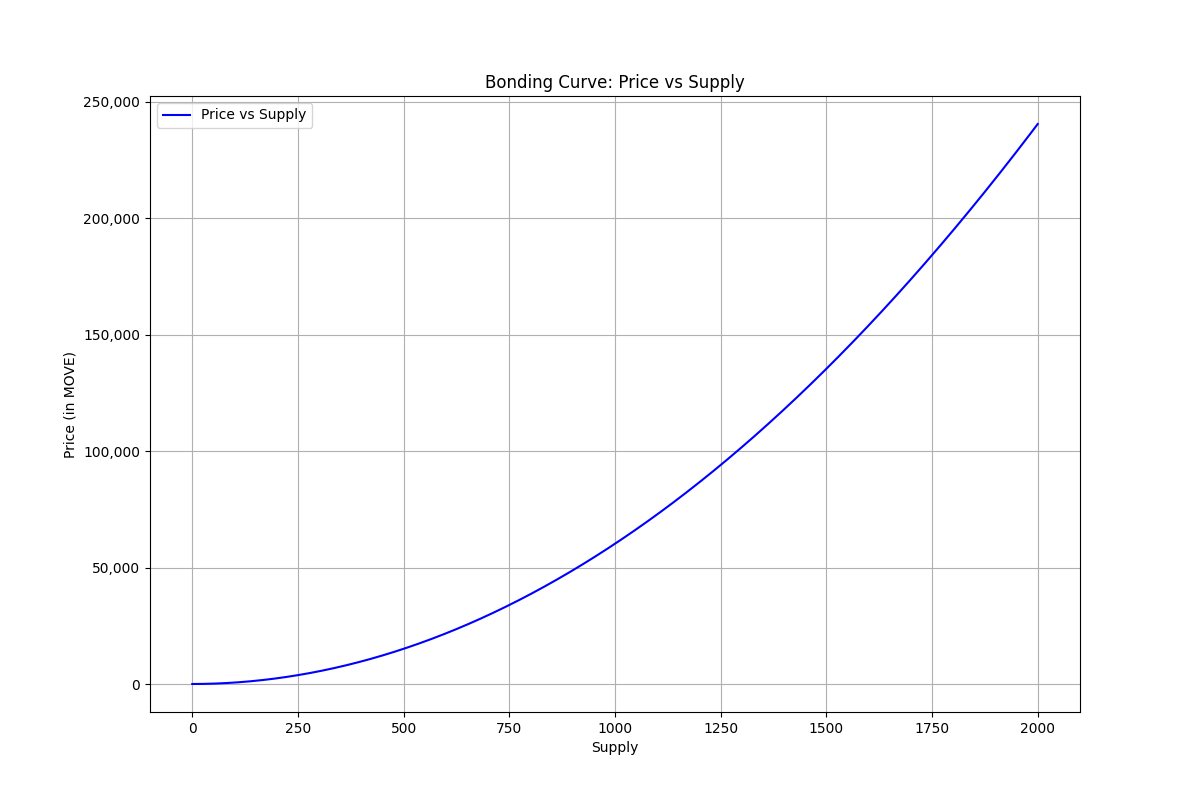
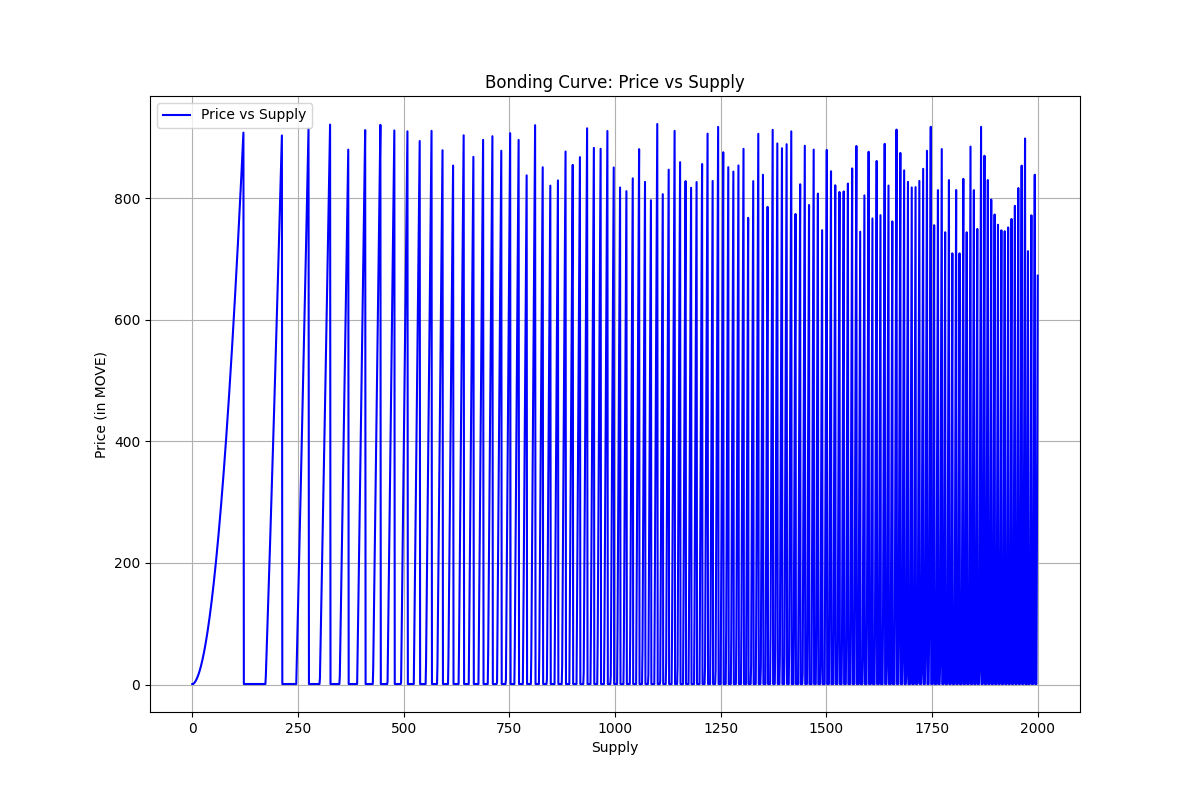
Scaled down PodiumProtocol Bonding Curve to mitigate overflow

diff --git a/bondingcurve.py b/bondingcurve.py
@@ -3,27 +3,37 @@ import numpy as np
 from matplotlib.ticker import FuncFormatter
 
 # Constants based on the bonding curve implementation
-DEFAULT_WEIGHT_A = 0.3 * 10**8  # Scaled by WAD
-DEFAULT_WEIGHT_B = 0.2 * 10**8  # Scaled by WAD
+DEFAULT_WEIGHT_A = 30000000  # 0.3 * 10^8
+DEFAULT_WEIGHT_B = 20000000  # 0.2 * 10^8
 DEFAULT_WEIGHT_C = 2
-WAD = 10**8  # Adjusted scaling factor for precision
+WAD = 100000000  # 10^8 (SCALING_FACTOR)
 INITIAL_PRICE = 1 * WAD  # Ensure starting price is exactly 1
 
 def get_price(supply, amount):
-    # Adjusted supply
+    # Add adjustment factor to supply
     adjusted_supply = supply + DEFAULT_WEIGHT_C
+    if adjusted_supply == 0:
+        return INITIAL_PRICE
 
     # Calculate summations
-    sum1 = ((adjusted_supply - 1) * adjusted_supply * (2 * (adjusted_supply - 1) + 1)) // 6
-    sum2 = ((adjusted_supply - 1 + amount) * (adjusted_supply + amount) * (2 * (adjusted_supply - 1 + amount) + 1)) // 6
-
-    # Summation difference
+    n1 = adjusted_supply - 1
+    
+    # Calculate first summation
+    # Divide operations into steps to prevent overflow
+    sum1_part1 = n1 * adjusted_supply
+    sum1_part2 = (2 * n1 + 1)
+    sum1 = (sum1_part1 * sum1_part2) // 6
+    
+    # Calculate summation for supply + amount
+    n2 = n1 + amount
+    sum2_part1 = n2 * (adjusted_supply + amount)
+    sum2_part2 = (2 * n2 + 1)
+    sum2 = (sum2_part1 * sum2_part2) // 6
+    
+    # Calculate final price with intermediate scaling to prevent overflow
     summation = DEFAULT_WEIGHT_A * (sum2 - sum1)
-
-    # Price calculation
-    price = (DEFAULT_WEIGHT_B * summation * INITIAL_PRICE) // (WAD * WAD)
-
-    # Return the maximum of calculated price and initial price
+    price = ((DEFAULT_WEIGHT_B * summation) // WAD * INITIAL_PRICE) // WAD
+    
     return max(price, INITIAL_PRICE)
 
 # Print the constants
@@ -40,14 +50,17 @@ for supply in supply_range:
     price = get_price(supply, 1) / WAD  # Convert to human-readable format
     prices.append(price)
 
-# Debugging: Print some price values
-print("\nPrice values for the first few supplies:")
+# Print first 20 prices
+print("\nPrice values for the first 20 supplies:")
 for i in range(20):
     print(f"Supply {i}: Price = {prices[i]:.2f} MOVE")
 
-# Debugging: Print calculated prices for specific supply values
+
+
+# Print calculated prices for key supply points
+print("\nPrices at key supply points:")
 for supply in [1, 10, 25, 50, 100, 250, 500, 1000, 2000]:
-    price = get_price(supply, 1) / WAD  # Convert to human-readable format
+    price = get_price(supply, 1) / WAD
     print(f"Supply {supply}: Price = {price:.2f} MOVE")
 
 # Create the plot
@@ -69,7 +82,8 @@ print(f"Min Price: {min(prices):.2f} MOVE")
 print(f"Max Price: {max(prices):.2f} MOVE")
 print(f"Price at Supply 1000: {prices[1000]:.2f} MOVE")
 print(f"Price at Supply 2000: {prices[2000]:.2f} MOVE")
+
 # Save the plot to a file
-plt.savefig('bonding_curve.png')  # Save the plot as a PNG file
+plt.savefig('bonding_curve.png')
 
 
